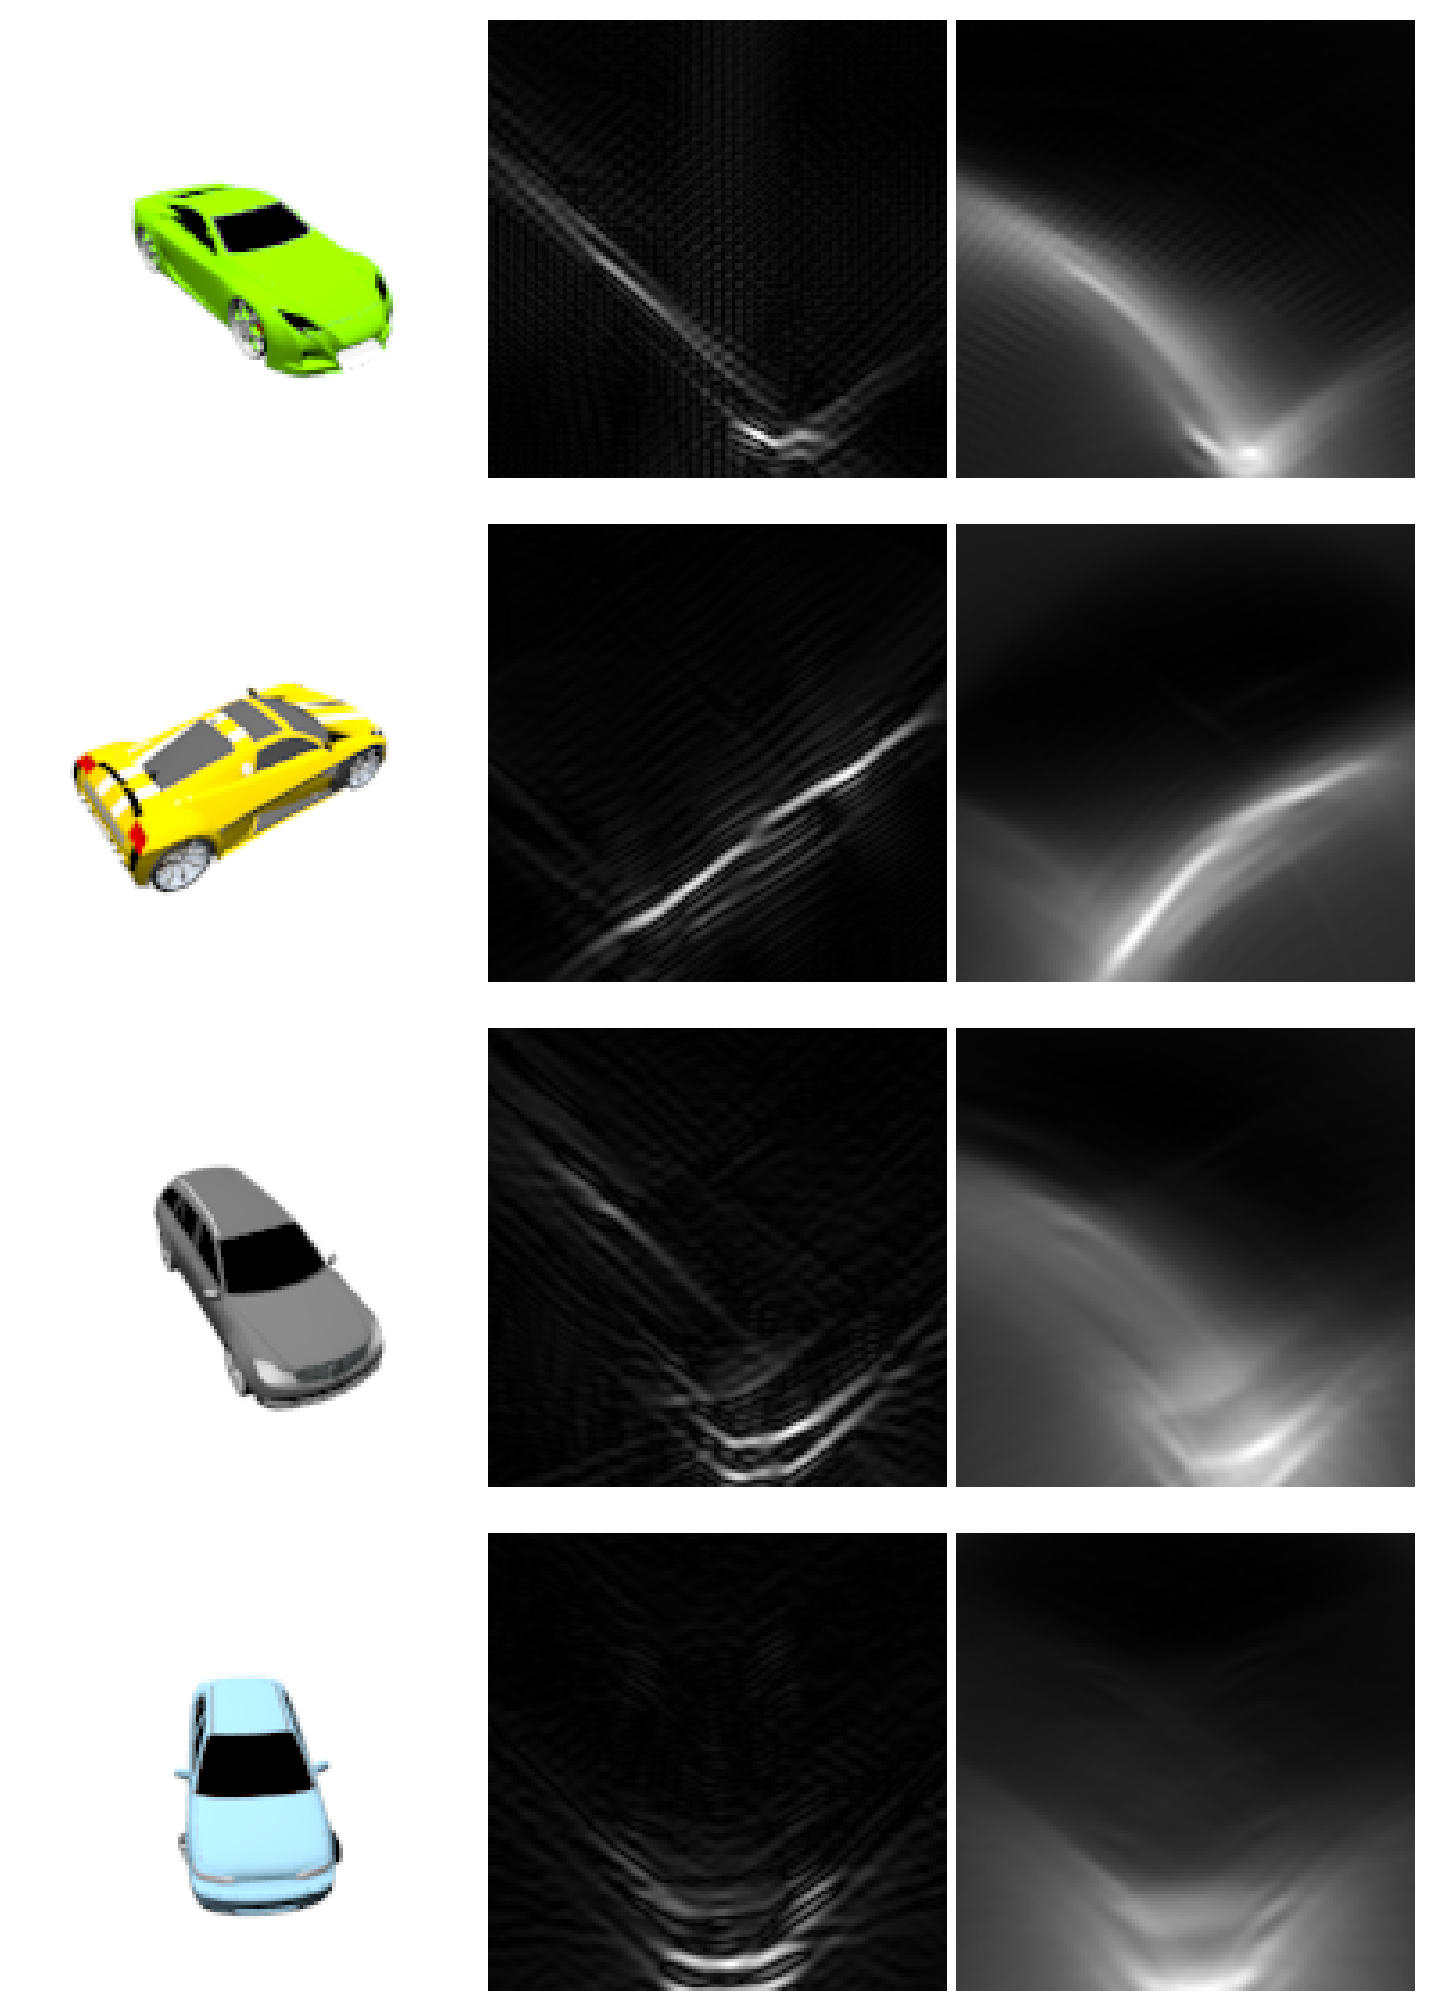
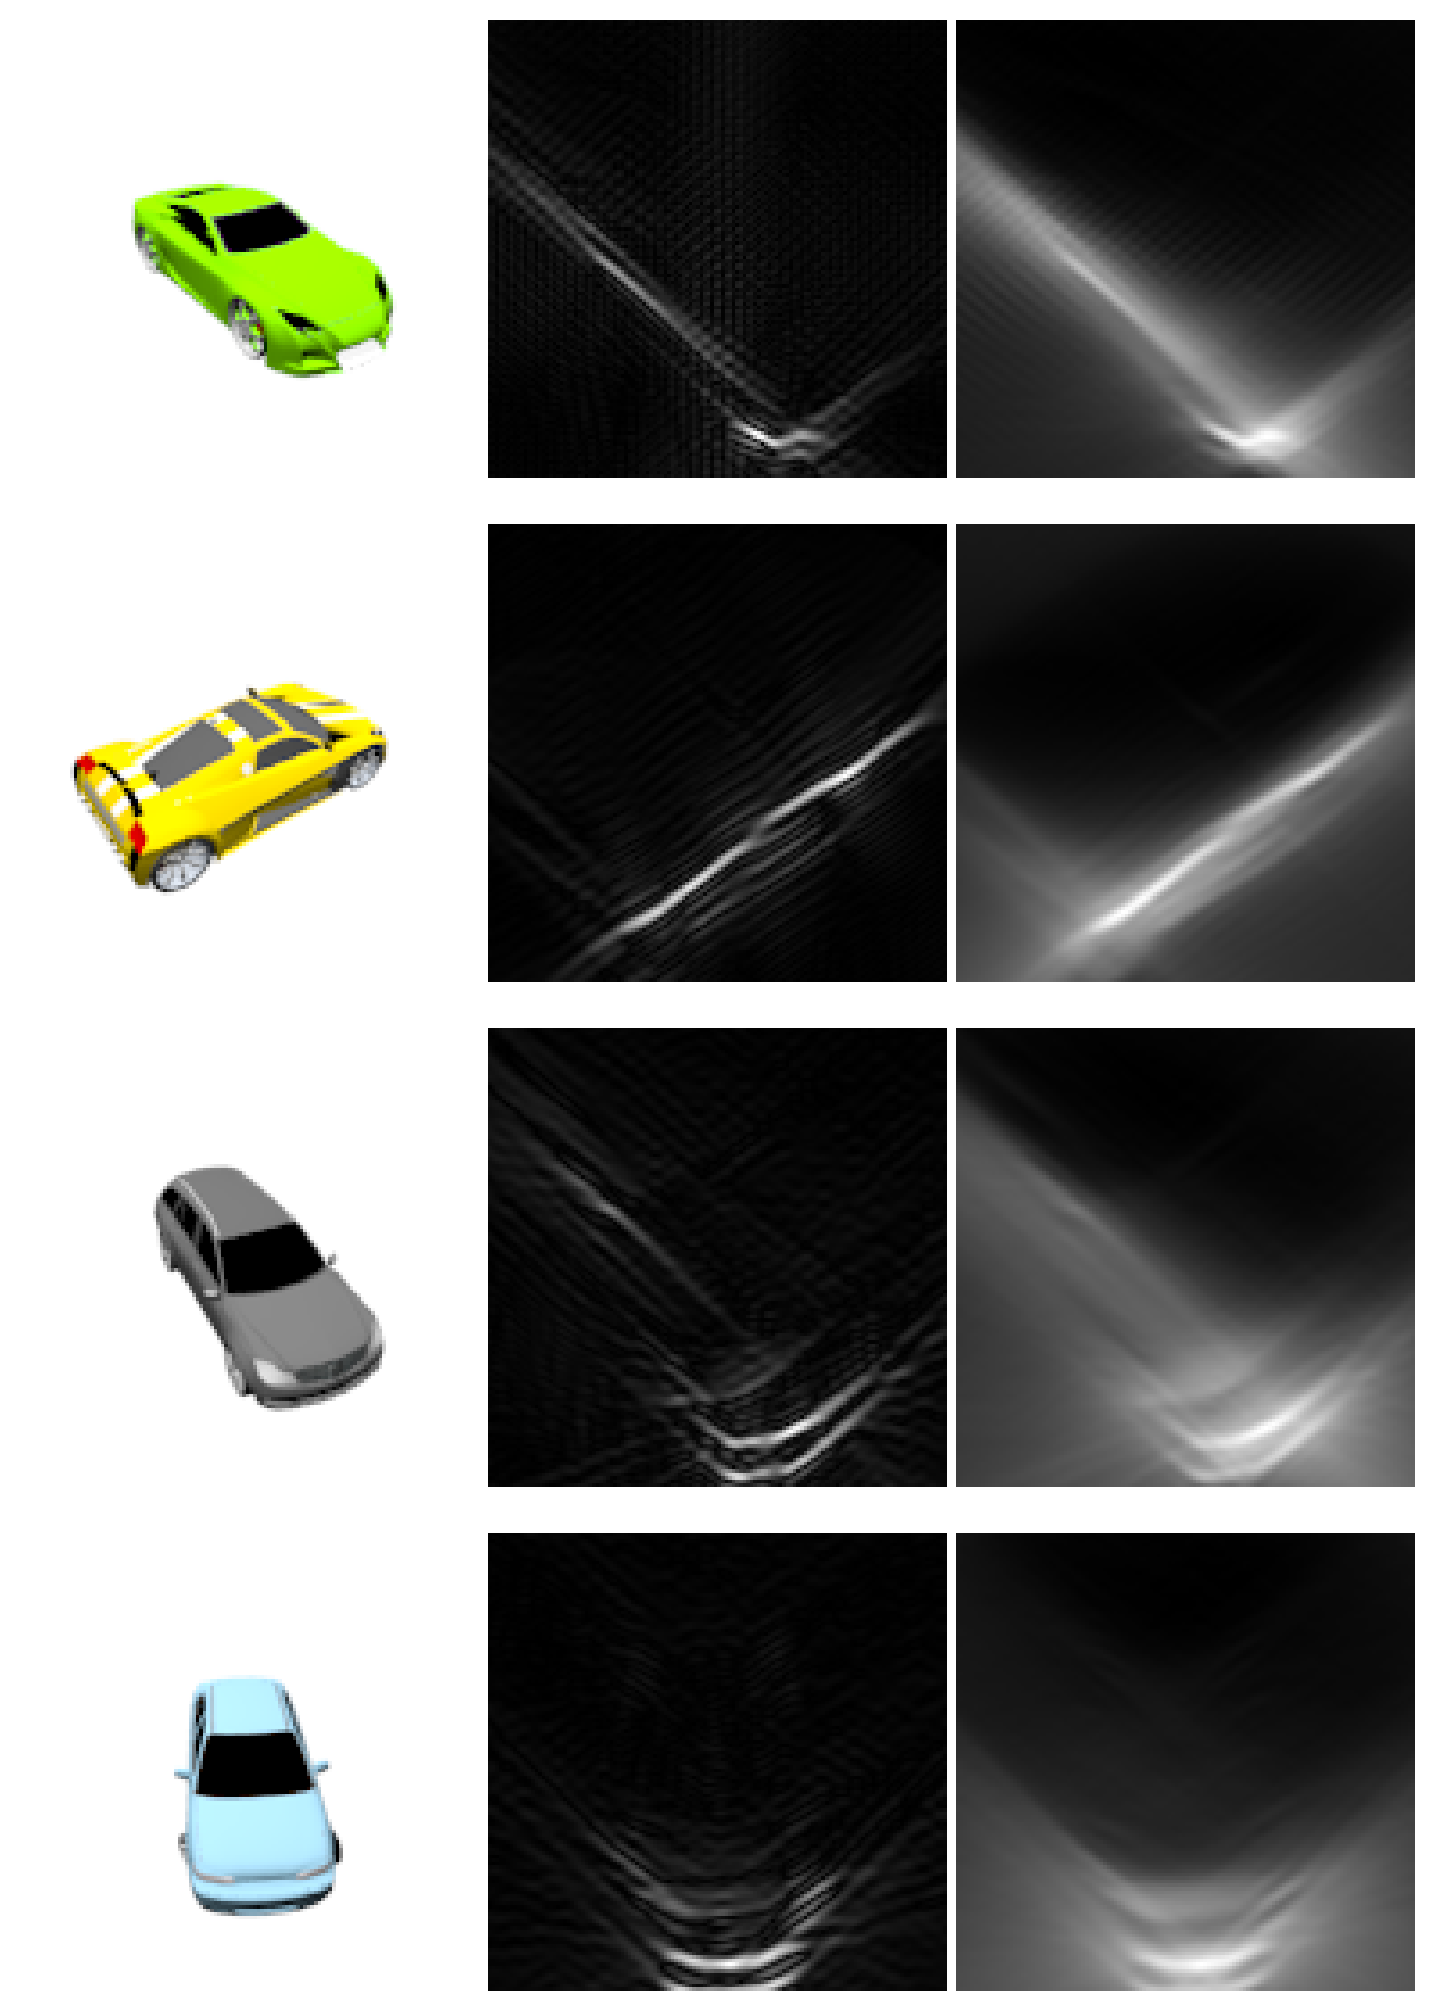
added window analysis to paper

diff --git a/latex/main.tex b/latex/main.tex
@@ -422,6 +422,15 @@ $ is then given by
 \end{equation}
 where $w(z) = h(z) * x(z)$ is the effective windowing function, and $|_{z=z_o}$ means to evaluate the expression at $z=z_o$. One may view the ideal band-limited digital signal in \ref{eq:interposummation} as $w(z)=sinc(z)$ which has no frequency domain side-lobes.
 
+Each transmit waveform therefore replaces the ideal sinc of interposummation with a different effective window $w(z)$. Figure \ref{fig:effective-windows} compares the effective windows produced by a sinc, a Gaussian pulse, an LFM chirp, and a Barker-13 code, all designed for the same spatial bandwidth $B_s$. In the range domain (Figure \ref{fig:effective-windows}, left) the sinc yields the narrowest mainlobe but slowly-decaying range sidelobes, while the Gaussian pulse trades a wider mainlobe for the complete suppression of sidelobes. The LFM chirp and Barker-13 waveforms, which are widely used in practical radar systems, achieve a mainlobe comparable to the sinc while exhibiting the characteristic range sidelobes of pulse compression. In the frequency domain (Figure \ref{fig:effective-windows}, right) the sinc window fills the band $\pm B_s/2$ with a sharp cutoff, whereas the Gaussian rolls off smoothly and the LFM and Barker-13 spectra fill the band with some ripple. Because interposummation is agnostic to the choice of $w(z)$, our simulator can substitute any of these effective windows to emulate the range response of a real radar's pulse-compression waveform.
+
+\begin{figure}[t]
+  \centering
+  \includegraphics[width=\linewidth]{figs/window_analysis_bw10_fs2000.png}
+  \caption{Effective interposummation windows $w(z) = h(z) * x(z)$ for a sinc, Gaussian, LFM chirp, and Barker-13 transmit waveform, all with spatial bandwidth $B_s = 10$. Left: range impulse response (linear, normalized). Right: spectrum in dB, with dashed lines marking $\pm B_s/2$.}
+  \label{fig:effective-windows}
+\end{figure}
+
 \subsection{Coherent Integrtion}
 \begin{equation}
     s'(z) = s(z)e^{-j4\pi z/\lambda}

diff --git a/imaging_algorithms.py b/imaging_algorithms.py
@@ -2,6 +2,7 @@ import numpy as np
 import torch
 import sys
 import warnings
+from utils import dot_product
 
 def projected_CBP(
     signal,
@@ -235,8 +236,7 @@ def strip_map_imaging(  signal,
     if planar_wave:
         mag_trajectory = torch.norm(trajectory, dim=-1, keepdim=True)  # (N,P,1)
         forward_vector = -trajectory / mag_trajectory  # (N,P,3)
-        distance_to_pixel = torch.sum( trajectory.reshape(N,P,1,3) * forward_vector.reshape(N,P,1,3), dim=-1 )  - mag_trajectory # (N,P,T)
-        print('distance_to_pixel.shape: ', distance_to_pixel.shape)
+        distance_to_pixel = mag_trajectory + dot_product( coord_grid.reshape(N,1,T,3), forward_vector.reshape(N,P,1,3) )  # (N,P,T)
     else:
         distance_to_pixel = torch.norm( trajectory.reshape(N,P,1,3) - coord_grid.reshape(N,1,T,3), dim=-1 )  # (N,P,T)
 

diff --git a/signal_visualization.py b/signal_visualization.py
@@ -225,8 +225,6 @@ def analyze_window_functions(
             ax_freq.set_ylim(db_floor, 3); ax_freq.grid(True, alpha=0.3); ax_freq.legend()
             ax_freq.set_xlim(-bw , +bw)
 
-            fig.suptitle('Window impulse response   bw=%g   fs=%g   region_radius=%g'
-                         % (bw, fs, region_radius))
             path = os.path.join(save_dir, 'window_analysis_bw%g_fs%g.png' % (bw, fs))
             savefig(path)
             print('saved %s' % path)
@@ -234,4 +232,4 @@ def analyze_window_functions(
 
 if __name__ == '__main__':
     # characterize the interpolate_signal window functions for the paper
-    analyze_window_functions(bw_list=(10.0, 20.0, 40.0), fs_list=(2000.0,))
+    analyze_window_functions(bw_list=(10.0,), fs_list=(2000.0,))